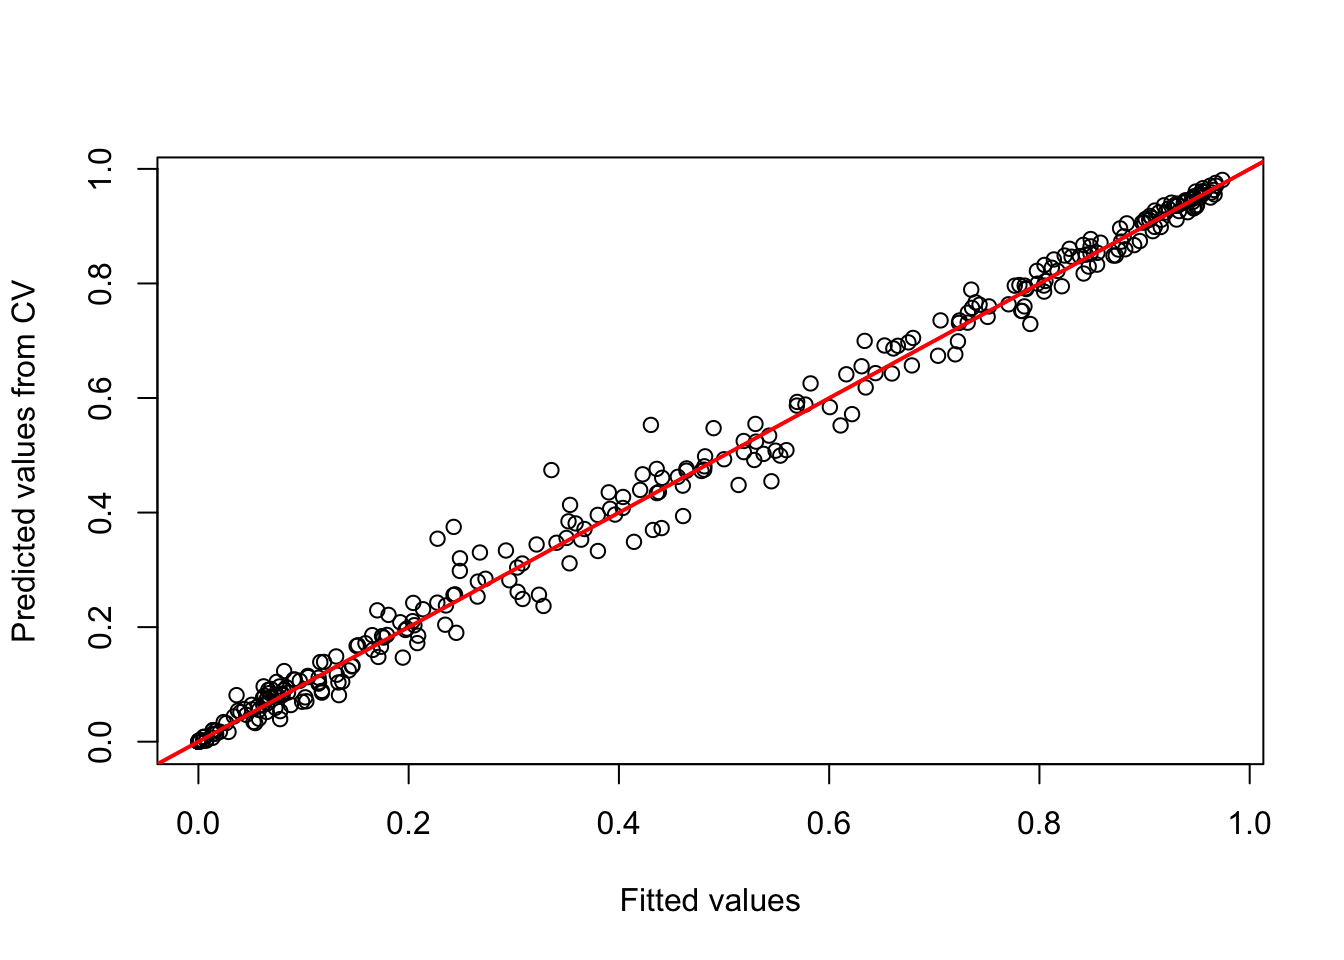
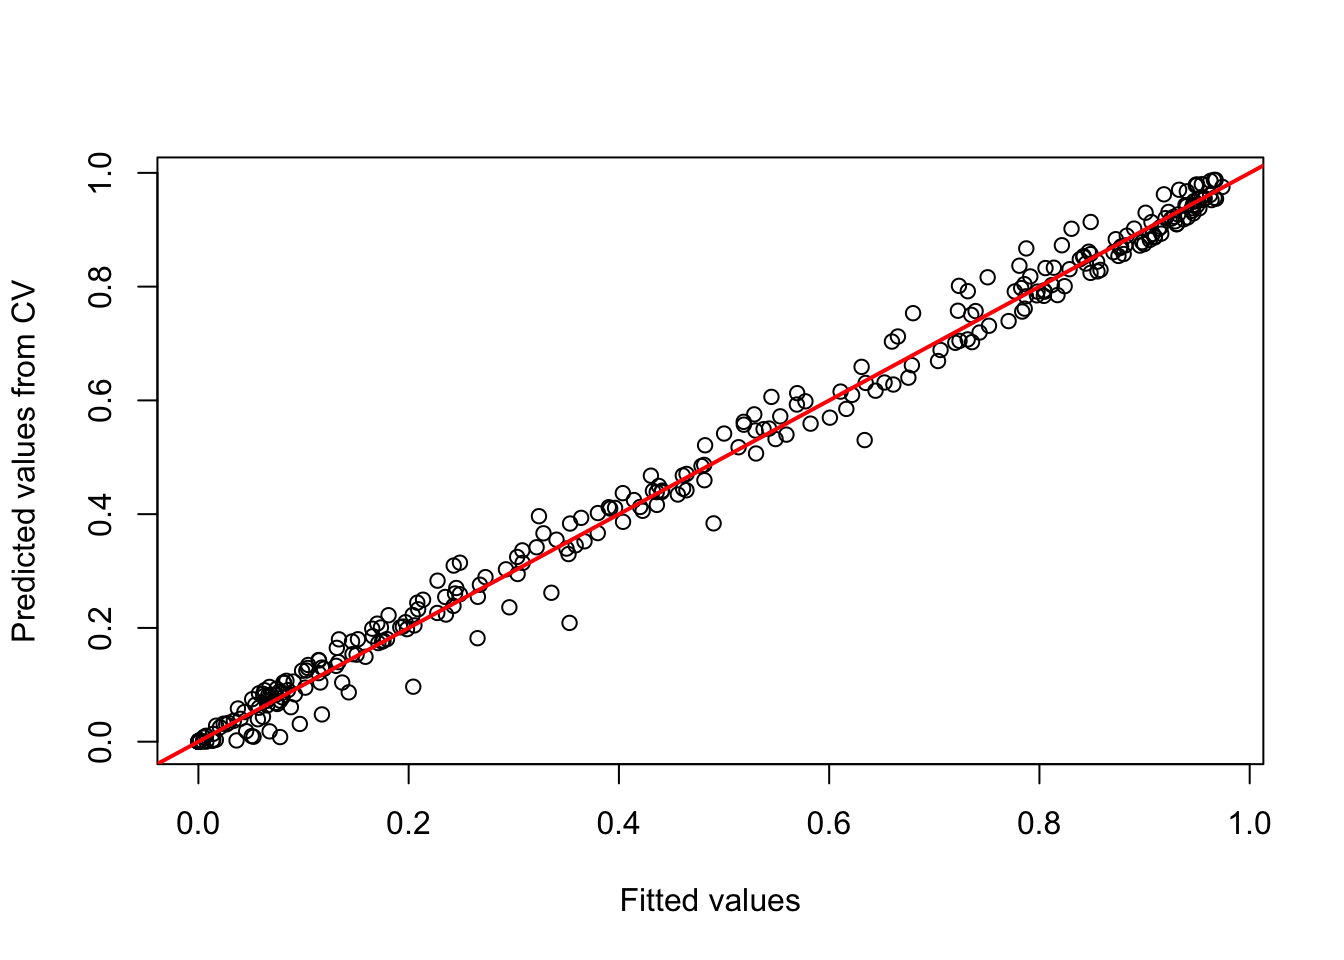
update exercise

diff --git a/5_SDM_eval.html b/5_SDM_eval.html
@@ -676,6 +676,7 @@ class="citation">(Roberts et al. 2017)</span>.</p>
 re-calibrate the model using only 4/5 of the original data and predict
 the model to the hold-out 1/5 of the data.</p>
 <pre class="r"><code>preds_cv &lt;- crossvalSDM(m_step, traindat = lynx_thinned, colname_species = &#39;occ&#39;, colname_pred = my_preds)</code></pre>
+<pre><code>## Warning: glm.fit: fitted probabilities numerically 0 or 1 occurred</code></pre>
 <p>We receive a numeric vector of cross-validated prediction. Out of
 curiosity, let us compare the fitted values on the training data and the
 predictions on the cross-validation data. You should see that the
@@ -716,17 +717,17 @@ thresh_dat &lt;- data.frame(
 (thresh_cv &lt;- PresenceAbsence::optimal.thresholds(DATA= thresh_dat))</code></pre>
 <pre><code>##          Method      pred
 ## 1       Default 0.5000000
-## 2     Sens=Spec 0.4700000
-## 3  MaxSens+Spec 0.4600000
-## 4      MaxKappa 0.4600000
-## 5        MaxPCC 0.4600000
+## 2     Sens=Spec 0.4500000
+## 3  MaxSens+Spec 0.4300000
+## 4      MaxKappa 0.4300000
+## 5        MaxPCC 0.4300000
 ## 6  PredPrev=Obs 0.4800000
 ## 7       ObsPrev 0.4489164
-## 8      MeanProb 0.4506897
-## 9    MinROCdist 0.4600000
-## 10      ReqSens 0.4700000
-## 11      ReqSpec 0.4500000
-## 12         Cost 0.4600000</code></pre>
+## 8      MeanProb 0.4510153
+## 9    MinROCdist 0.4300000
+## 10      ReqSens 0.4800000
+## 11      ReqSpec 0.4300000
+## 12         Cost 0.4300000</code></pre>
 <p>We can compare observed vs. predicted presences and absences based on
 these tresholds. For this, we take our predictions from the
 cross-validation. The comparison is easiest illustrated in a confusion
@@ -739,8 +740,8 @@ thresholds data frame):</p>
 <pre class="r"><code>(cmx_maxSSS &lt;- PresenceAbsence::cmx(DATA= thresh_dat, threshold=thresh_cv[3,2]))</code></pre>
 <pre><code>##          observed
 ## predicted   1   0
-##         1 128  25
-##         0  17 153</code></pre>
+##         1 132  26
+##         0  13 152</code></pre>
 <p>From such a confusion matrix, we can calculate different evaluation
 criteria. For example,<br />
 - the proportion of correctly classified test observations
@@ -751,22 +752,22 @@ sensitivity or true positive rate<br />
 specificity or true negative rate</p>
 <pre class="r"><code># Proportion of correctly classified observations
 PresenceAbsence::pcc(cmx_maxSSS, st.dev=F)</code></pre>
-<pre><code>## [1] 0.869969</code></pre>
+<pre><code>## [1] 0.879257</code></pre>
 <pre class="r"><code># Sensitivity = true positive rate
 PresenceAbsence::sensitivity(cmx_maxSSS, st.dev=F)</code></pre>
-<pre><code>## [1] 0.8827586</code></pre>
+<pre><code>## [1] 0.9103448</code></pre>
 <pre class="r"><code># Specificity = true negative rate
 PresenceAbsence::specificity(cmx_maxSSS, st.dev=F)</code></pre>
-<pre><code>## [1] 0.8595506</code></pre>
+<pre><code>## [1] 0.8539326</code></pre>
 <p>Other measures are <em>Kappa</em> and <em>TSS</em> (the true skill
 statistic). <span class="citation">Allouche, Tsoar, and Kadmon
 (2006)</span> explain how to calculate these.</p>
 <pre class="r"><code># Kappa
 PresenceAbsence::Kappa(cmx_maxSSS, st.dev=F)</code></pre>
-<pre><code>## [1] 0.7385321</code></pre>
+<pre><code>## [1] 0.7579781</code></pre>
 <pre class="r"><code># True skill statistic
 TSS(cmx_maxSSS) </code></pre>
-<pre><code>## [1] 0.7423092</code></pre>
+<pre><code>## [1] 0.7642774</code></pre>
 <p>According to <span class="citation">Araujo et al. (2005)</span>,
 <em>Kappa</em>&gt;0.4 indicate good predictions. For TSS, we often
 assume TSS&gt;0.5 to indicate good predictions.</p>
@@ -797,7 +798,7 @@ plot(roc_cv, col = &quot;grey70&quot;, lwd = 2)</code></pre>
 <p><img src="5_SDM_eval_files/figure-html/unnamed-chunk-13-1.png" width="672" /></p>
 <pre class="r"><code># Compute the AUC:
 AUC::auc(roc_cv)</code></pre>
-<pre><code>## [1] 0.9120496</code></pre>
+<pre><code>## [1] 0.9148392</code></pre>
 <p>It seems our model is performing pretty well on hold-out data. We can
 thus attempt making predictions in space and time.</p>
 <p>Please be aware that many packages contain functions for evaluating
@@ -809,7 +810,7 @@ measures. By default, this function uses the <em>MaxSens+Spec</em>
 threshold.</p>
 <pre class="r"><code>evalSDM(lynx_thinned$occ, preds_cv)</code></pre>
 <pre><code>##         AUC       TSS     Kappa      Sens      Spec      PCC        D2 thresh
-## 1 0.9120496 0.7423092 0.7385321 0.8827586 0.8595506 0.869969 0.3949791   0.46</code></pre>
+## 1 0.9148392 0.7642774 0.7579781 0.9103448 0.8539326 0.879257 0.3706022   0.43</code></pre>
 <div class="alert alert-info">
 <p><em><strong>Exercise:</strong></em></p>
 <p>Use the <code>m2</code> model from the previous exercise and assess
@@ -908,8 +909,9 @@ plot(r_pred_fut, axes=F)</code></pre>
 <p><img src="5_SDM_eval_files/figure-html/unnamed-chunk-19-2.png" width="672" /></p>
 <div class="alert alert-info">
 <p><em><strong>Exercise:</strong></em></p>
-<p>Use the <code>m2</code>model from the previous exercise and make
-predictions to current and future climates.</p>
+<p>In the previous exercise, you estimated another (full) model with
+different (or more) predictors. Use this model now and make predictions
+to current and future climates.</p>
 <ul>
 <li>Which model predicts a larger area under current climate?</li>
 <li>Which model predicts a larger difference between current and future

diff --git a/6_SDM_algorithms.html b/6_SDM_algorithms.html
@@ -1197,6 +1197,20 @@ r_ens_bin &lt;- terra::rast(env_ensemble_bin, crs=crs(bio_curr))
 # Map predicted presence from ensembles:
 spplot(r_ens_bin)   </code></pre>
 <p><img src="6_SDM_algorithms_files/figure-html/unnamed-chunk-22-1.png" width="672" /></p>
+<div class="alert alert-info">
+<p><em><strong>Exercise:</strong></em></p>
+<p>In the Practical 4 (Simple SDM fitting), you estimated another (full)
+model with different (or more) predictors. Use this model now and:</p>
+<ul>
+<li>run at least two more algorithms using the predictors of your
+previous GLM</li>
+<li>plot the partial response curves (not the response surface!) for
+your models</li>
+<li>use these models to construct an ensemble (using at least one
+ensemble method: mean, median, weighted mean, or committee average) and
+map the resulting predictions</li>
+</ul>
+</div>
 </div>
 </div>
 <div id="outlook" class="section level1" number="4">
@@ -1204,7 +1218,8 @@ spplot(r_ens_bin)   </code></pre>
 <p>We have now fitted multiple SDM algorithms to our species
 distribution data and made predictions in space and time. Of course,
 science doesn’t stop here and you may want to answer different questions
-using the SDM. I only provide some hints here.</p>
+using the SDM. I only provide some hints here. These are simply meant as
+food for thought.</p>
 <div class="alert alert-success">
 <p>In conservation, we often aim to prioritise the most important sites
 for reserve selection.</p>
